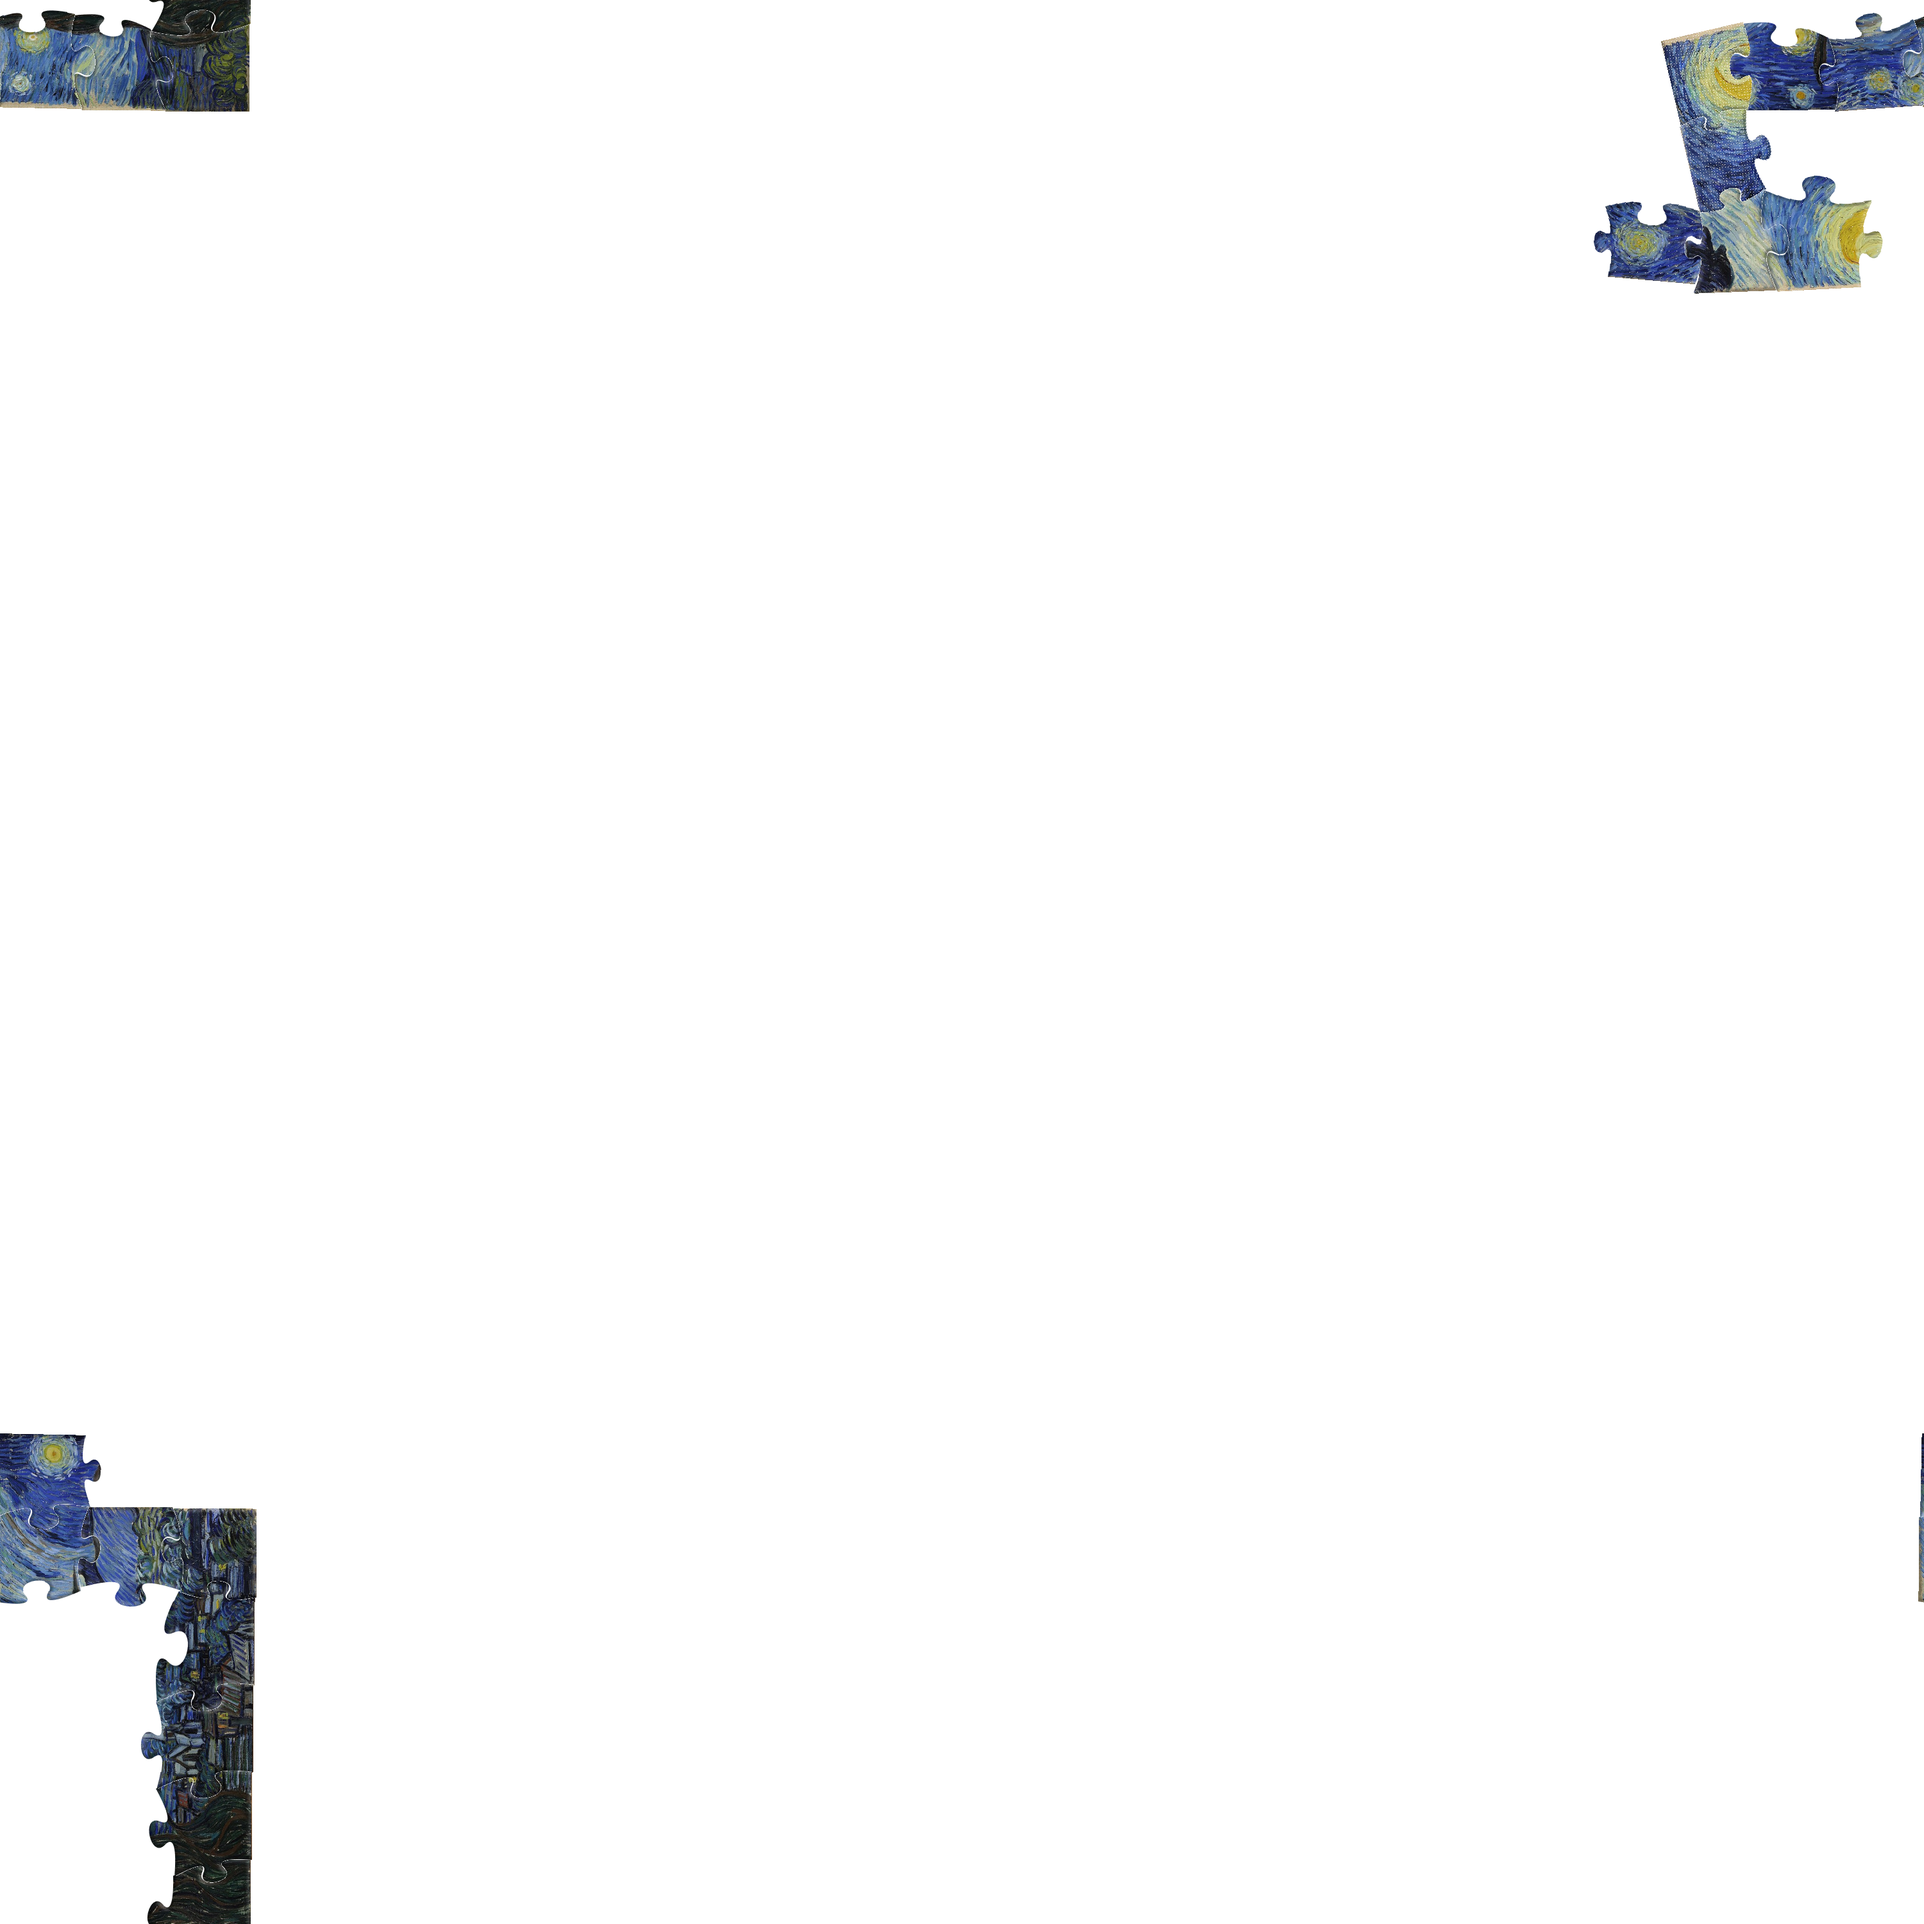
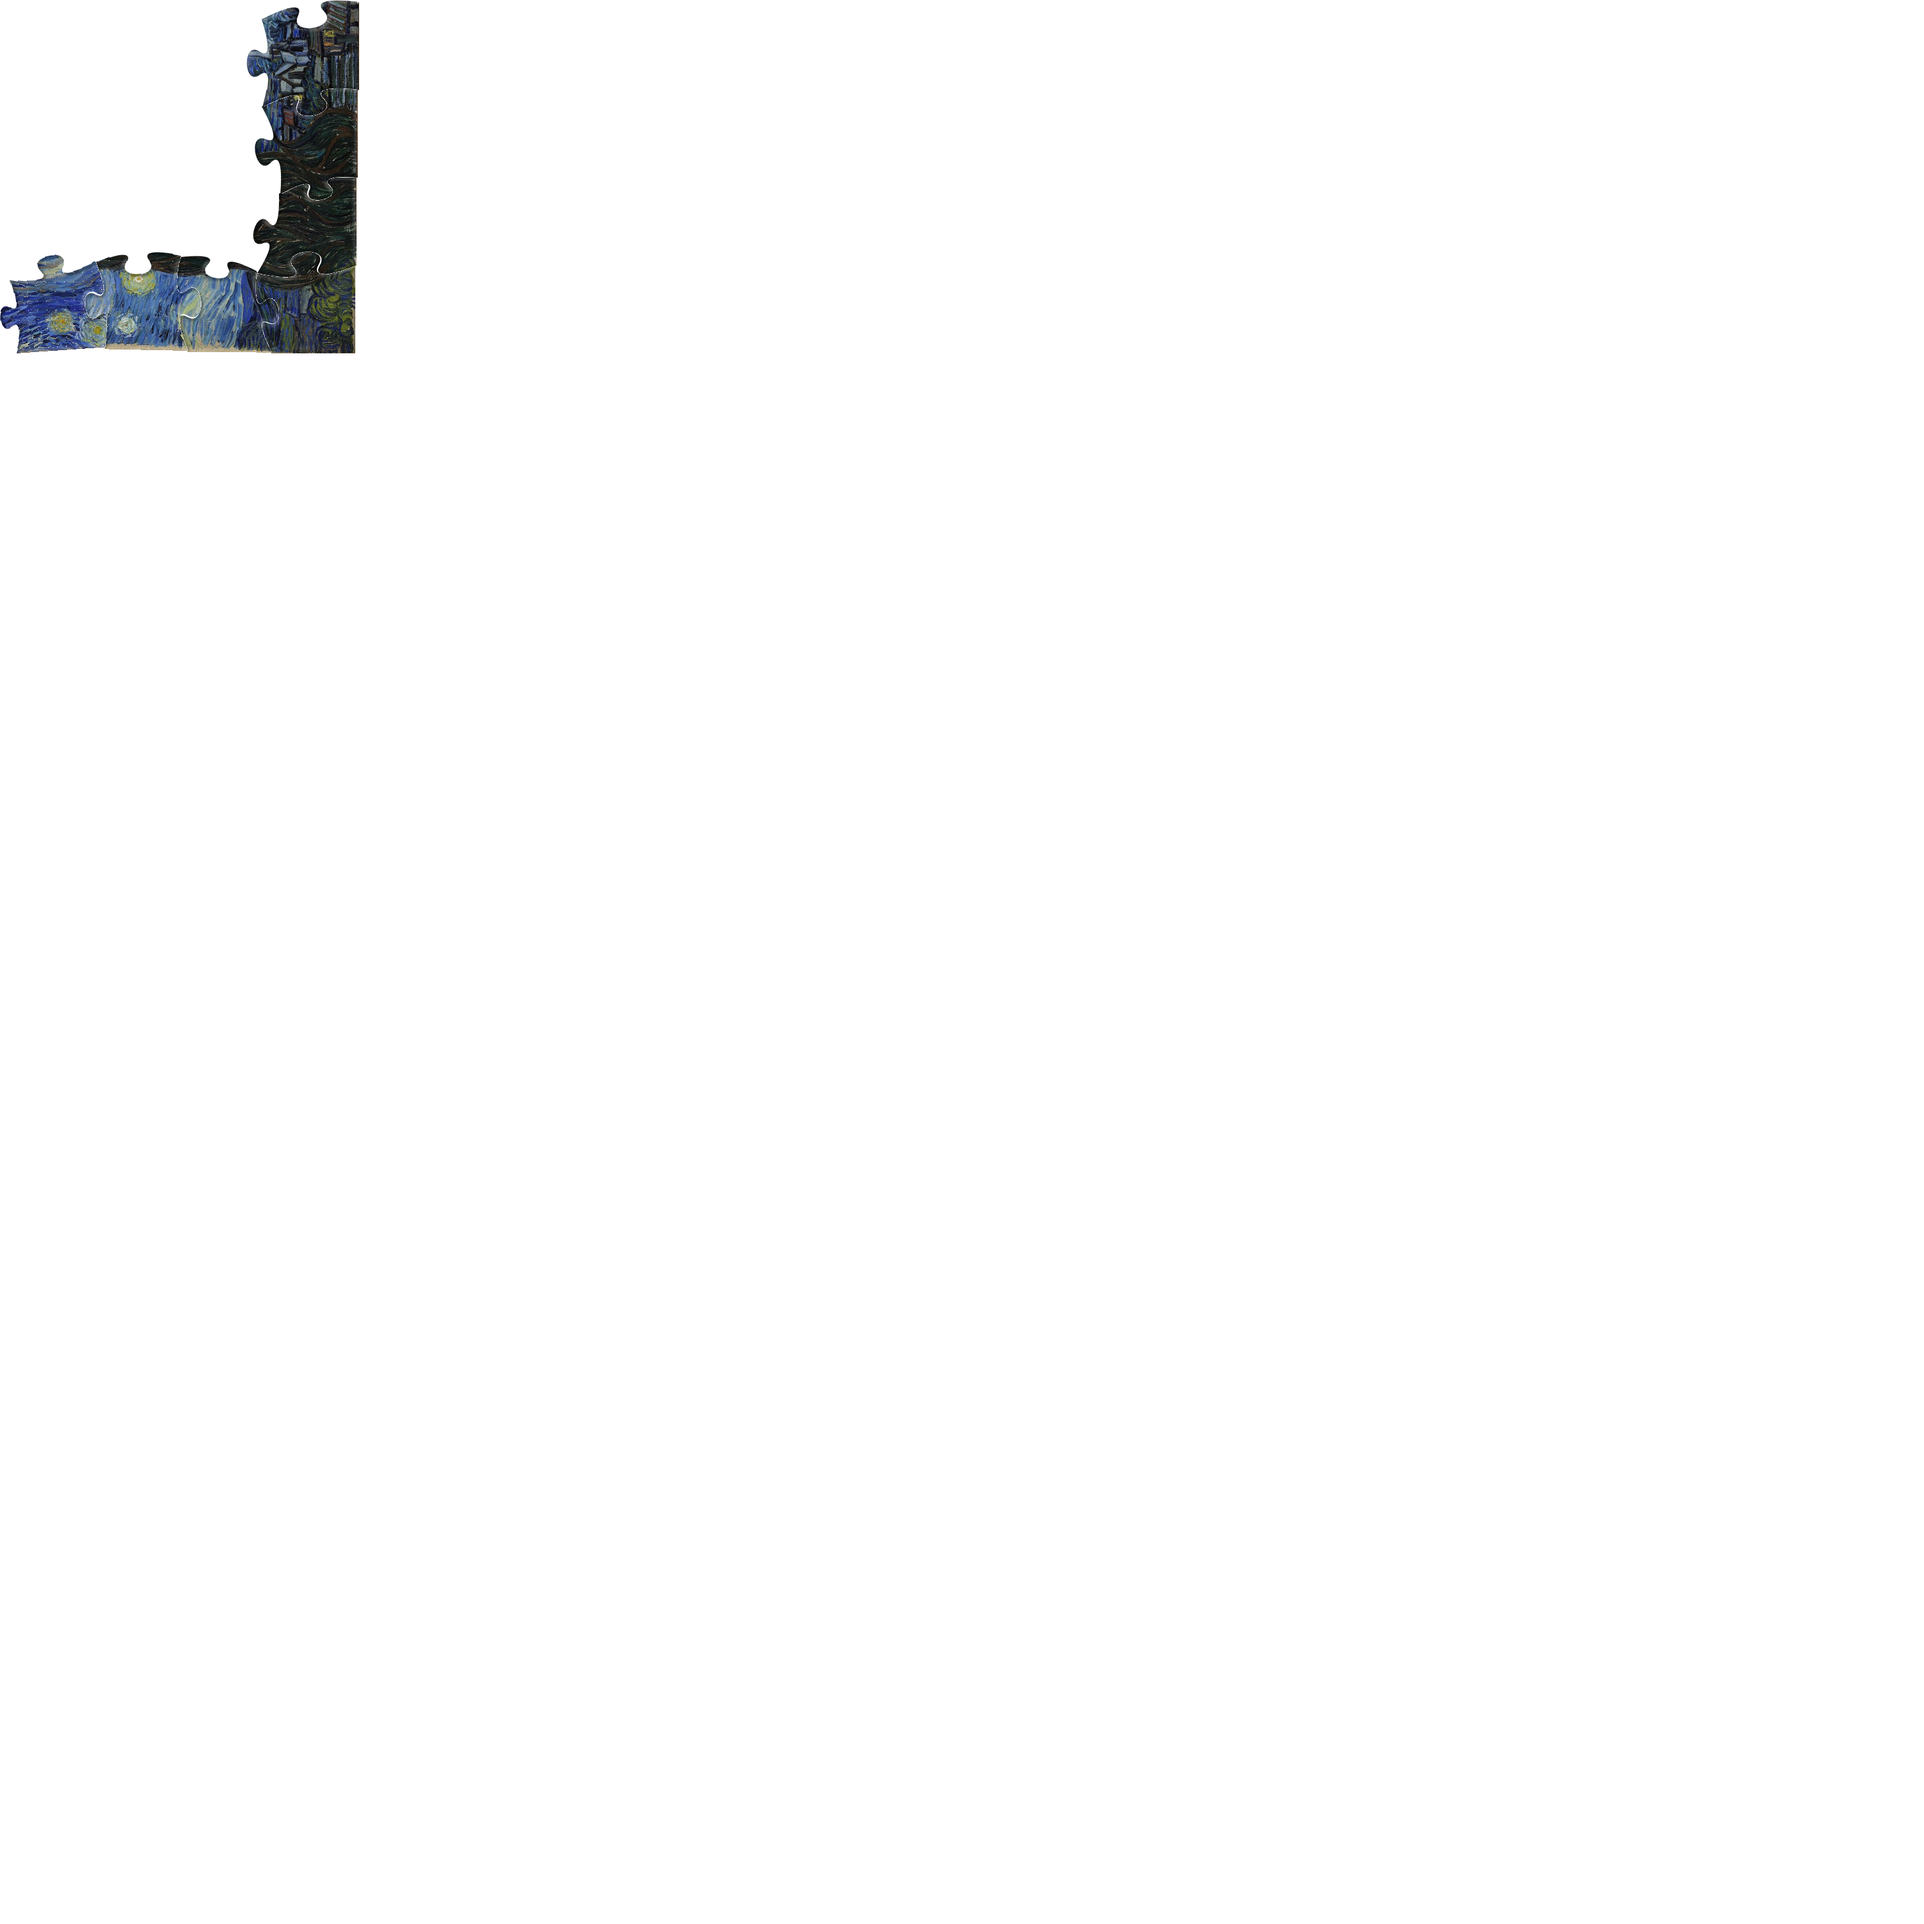
np array range

diff --git a/src/Puzzle/Puzzle.py b/src/Puzzle/Puzzle.py
@@ -56,7 +56,8 @@ def show_pyplot(piece) :
     plt.scatter(x_coord, y_coord, c=np.array(color) / 255.0)
     plt.show()
 
-def show(largeBoard):
+def show(largeBoard, dx, dy):
+    largeBoard = np.roll(largeBoard, [-dx, -dy], axis=(0, 1))
 
     cv2.imwrite("../result/temp.png", largeBoard)
     temp = cv2.imread("../result/temp.png")
@@ -136,6 +137,8 @@ class Puzzle():
         non_border_pieces = []
         complete_pieces = []
         largeBoard = np.ones((3000, 3000, 3)) * 255
+        minX = 2999
+        minY = 2999
 
 
         # 분류 작업;
@@ -180,11 +183,17 @@ class Puzzle():
 
                         for pixel in friend.img_piece_:
                             pixel.pos = rot_matrix@pixel.pos
-                            largeBoard[ int(pixel.pos[0]+trans[1]),int(pixel.pos[1]+trans[0])] = pixel.color
+                            x = int(pixel.pos[0] + trans[1])
+                            y = int(pixel.pos[1] + trans[0])
+                            if x < minX:
+                                minX = x
+                            if y < minY:
+                                minY = y
+                            largeBoard[x][y] = pixel.color
                         break
                 if not is_valid:
                     break
-            show(largeBoard)
+            show(largeBoard, minX, minY)
 
     def find_matching_piece(self, ref_edge, candidate_pieces):
         r_x1, r_y1 = ref_edge.shape[0]
